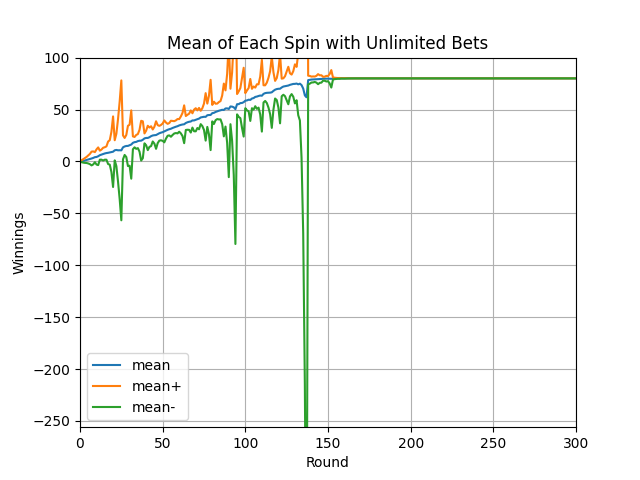
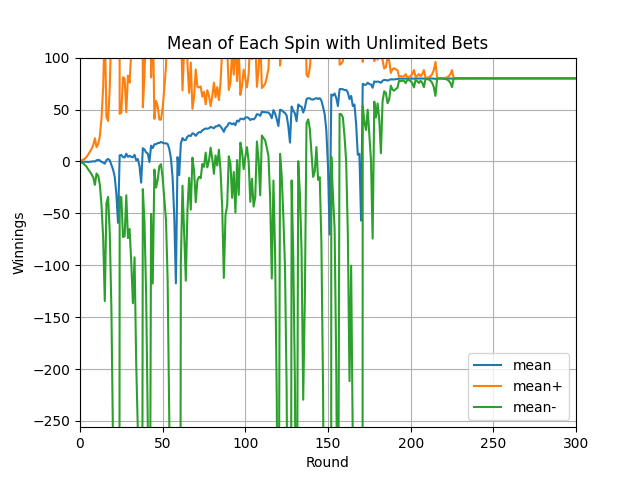
Add files via upload

diff --git a/martingale.py b/martingale.py
@@ -95,7 +95,7 @@ def test_code():
     """  		  	   		  		 		  		  		    	 		 		   		 		  
     Method to test your code  		  	   		  		 		  		  		    	 		 		   		 		  
     """  		  	   		  		 		  		  		    	 		 		   		 		  
-    win_prob = 0.60  # set appropriately to the probability of a win  		  	   		  		 		  		  		    	 		 		   		 		  
+    win_prob = 9/19  # set appropriately to the probability of a win  		  	   		  		 		  		  		    	 		 		   		 		  
     np.random.seed(gtid())  # do this only once  		  	   		  		 		  		  		    	 		 		   		 		  
     perform_experiment_1_get_figure1(win_prob)
     perform_experiment_1_get_figure2_and_figure3(win_prob)
